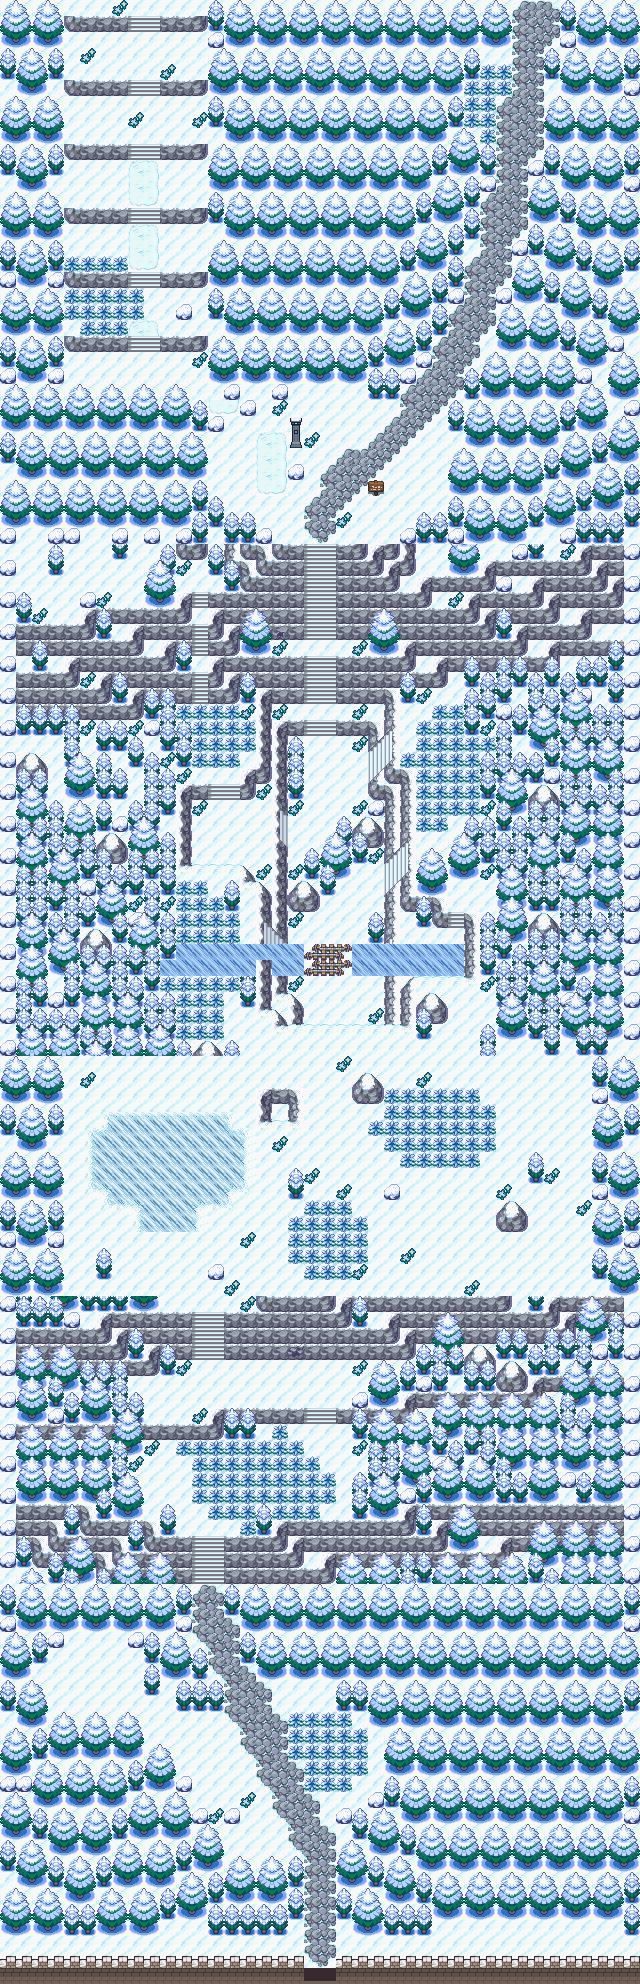
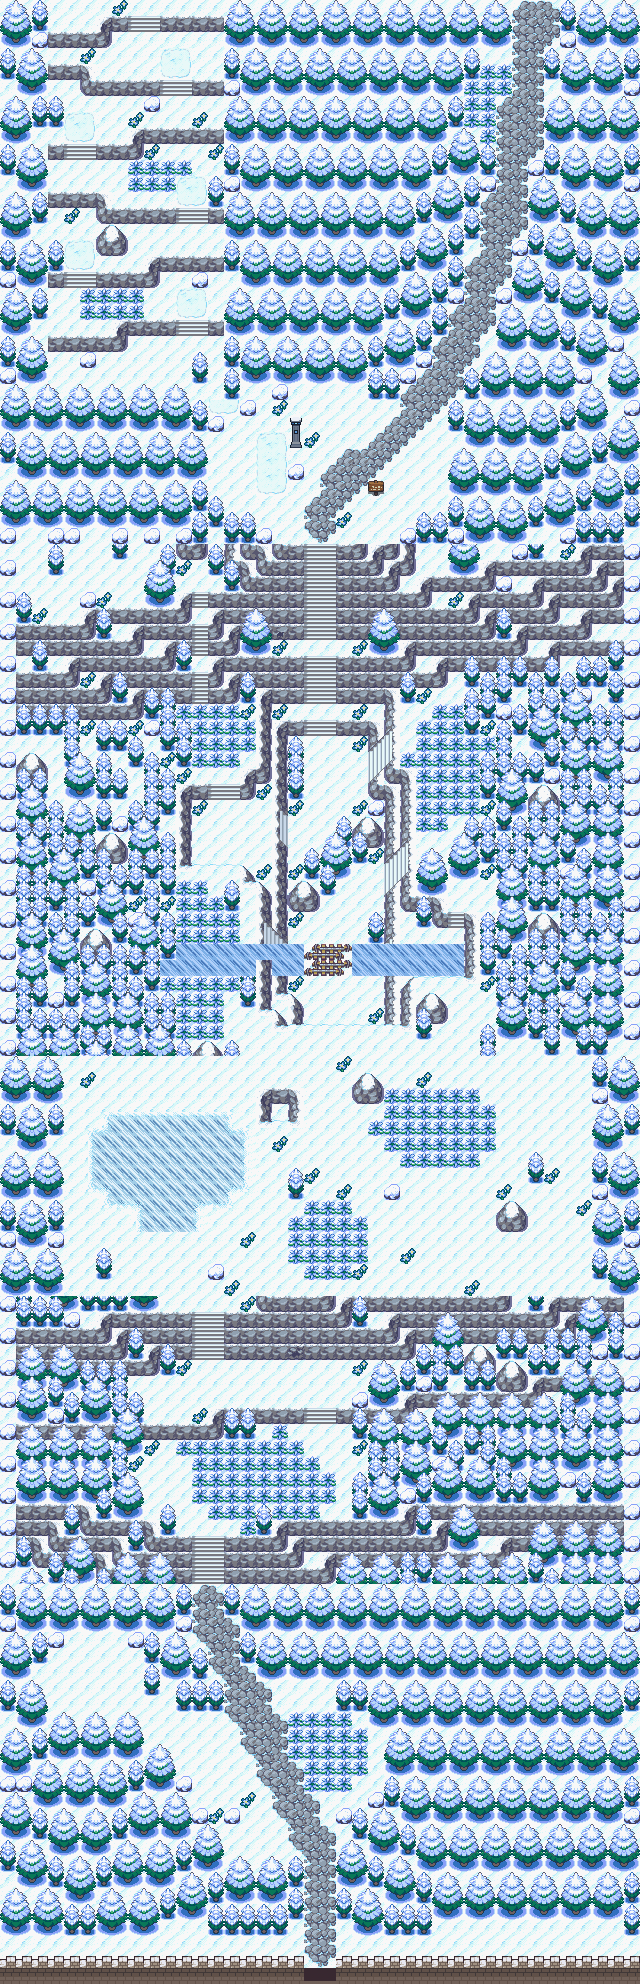
Route 13 mock v2: a switchback climb to Mt. Mirroh
User 2026-11-22: the stairs should curve into one another level by level, like a hike.
Six contour walls that jog a row up or down with MonoMyth's corner pieces (climbing jog:
0x107 then 0x10d in the same column; falling jog: 0x10e then 0x105), each unbroken from
trees to trees; the stairs alternate sides (x 11, 4, 11, 4, 10, then 8 at the top), so
each ledge is walked end to end. A trodden landing at each stair, grass, a boulder, rocks
and small pines on the ledges. Zone widened to x 3-13.

Claude-Session: https://claude.ai/code/session_01FHXnfqnedTHLf5QFbB3MCU

Changed region(s): [[0.0312, 0.0, 0.375, 0.2188]]

diff --git a/tools/art/route13/route13_v2.py b/tools/art/route13/route13_v2.py
@@ -177,39 +177,59 @@ def compose():
     # cobbles carry on to their HQ, the wilds of Mt. Mirroh are an unpaved trail breaking off them)
     road_ne = lane(((19.5, 33.4), (19.8, 31), (21.5, 29), (24, 27), (27.5, 23), (30, 17), (31.5, 11), (32.5, 5), (33, -1)), 1.25, 'ne', 0.3)
     trail = lane(((18.5, 30.5), (15, 27), (11, 22), (9, 16), (8.5, 8), (8.5, -1)), 1.0, 'nw', 0.3)
-    spur = {(x, y) for y in range(0, 26) for x in range(W) if 13 + y * 0.28 <= x <= 27 - y * 0.30 and (x, y) not in plateau}
+    spur = {(x, y) for y in range(0, 26) for x in range(W) if max(14, 13 + y * 0.28) <= x <= 27 - y * 0.30 and (x, y) not in plateau}
     upper = {(x, y) for y in range(0, FORK[1] + 1) for x in range(W)}
-    openu = plateau | road_ne | trail | blob(31, 6, 2.5, 2.0, 'g6') | blob(6, 18, 2.0, 2.5, 'g5') \
-        | {(x, y) for y in range(0, 24) for x in range(4, 13) if y % 4 != 1}                 # (the steep terraces' ledges)
-    openu = {c for c in openu if c not in spur} | {c for c in road_ne | trail}
-    forest(K, upper - openu - {(x, y) for y in range(0, 24) for x in range(4, 13)}, 'uf')
-    # steep terraces up to Mt. Mirroh: a rock wall every fourth row, each running unbroken from the trees on the left
-    # to the trees on the right (user 2026-11-22: stubs and gaps by the stairs looked wrong; no way round either),
-    # the stone stair (x 8-9) its only way through
-    for y in range(1, 24, 4):
-        x0 = 4
-        while x0 > 0 and not K.solid[y, x0 - 1]: x0 -= 1
-        x1 = 12
-        while x1 < W - 1 and not K.solid[y, x1 + 1]: x1 += 1
-        for x in range(x0, x1 + 1):
-            if x in (8, 9): continue
-            K.put(x, y, ef(0x105 if x == x0 else 0x107 if x == x1 else 0x106), 'cliff', True)
-        K.ids(8, y, [[0x47, 0xe1]], 'stairs', solid=False, beh=0x4F)
+    ZONE = {(x, y) for y in range(0, 24) for x in range(3, 14)}                 # (the switchback terraces)
+    openu = plateau | road_ne | blob(31, 6, 2.5, 2.0, 'g6') \
+        | ZONE
+    openu = ({c for c in openu if c not in spur} | road_ne | {c for c in trail if c[1] >= 24}) - {c for c in trail if c[1] < 24 and c not in ZONE}
+    forest(K, upper - openu - ZONE, 'uf')
+    # the switchback climb to Mt. Mirroh (user 2026-11-22: the stairs should curve into one another, level by level,
+    # so it feels like an ascent): six contour walls that jog a row up or down as MonoMyth's do (a climbing jog: the
+    # lower run ends 0x107 and the upper starts 0x10d in the same column; a falling jog: 0x10e then 0x105), each
+    # running unbroken across the zone (x 3-13) between the trees; their stairs alternate right, left, right, left,
+    # right, then the top: you climb, walk the ledge to its far end, climb again
+    WALLS = [  # (runs: (x0, x1, row)), the stair's x
+        ([(3, 7, 21), (7, 13, 20)], 11), ([(3, 9, 17), (9, 13, 16)], 4), ([(3, 6, 12), (6, 13, 13)], 11),
+        ([(3, 8, 9), (8, 13, 8)], 4), ([(3, 5, 4), (5, 13, 5)], 10), ([(3, 6, 2), (6, 13, 1)], 8)]
+    landings = []
+    for runs, sx in WALLS:
+        for i, (x0, x1, y) in enumerate(runs):
+            for x in range(x0, x1 + 1):
+                m = 0x106
+                if i == 0 and x == x1 and len(runs) > 1:
+                    m = 0x107 if runs[1][2] < y else 0x10e                       # (this run ends where the next begins)
+                if i == 1 and x == x0:
+                    m = 0x10d if y < runs[0][2] else 0x105
+                K.put(x, y, ef(m), 'cliff', True)
+        (sy,) = [y for (x0, x1, y) in runs if x0 < sx and sx + 1 < x1 + (1 if x1 == 13 else 0) and x0 <= sx <= x1 - 1] or [runs[-1][2]]
+        K.ids(sx, sy, [[0x47, 0xe1]], 'stairs', solid=False, beh=0x4F); landings.append((sx, sy))
+    # ledge life: a trodden landing above each stair, grass, a boulder, rocks and small pines against the walls
+    land = set()
+    for (sx, sy) in landings:
+        for yy in (sy - 2, sy - 1):
+            for xx in (sx, sx + 1):
+                if 0 <= yy and K.tag[yy, xx] == 'snow': land.add((xx, yy))
+    r1.icy_track(K, {c for c in land if (c[0], c[1] + 1) in land or (c[0], c[1] - 1) in land})
+    grass(K, {(x, y) for y in (18, 19) for x in range(5, 9)}); grass(K, {(x, y) for y in (10, 11) for x in range(8, 12)})
+    boulder(K, 6, 14); boulder(K, 10, 2)
+    for (x, y) in ((12, 22), (3, 6), (13, 11), (3, 15)): pine(K, x, y, False)
+    for (x, y) in ((9, 6), (5, 22), (12, 17)): rock(K, x, y)
     cob = thick({c for c in road_lo | road_ne if K.tag[c[1], c[0]] in ('snow',)})
     cobbles(K, cob)
     for (x, y) in cob: K.solid[y, x] = False; K.beh[y, x] = MB_NORMAL
     wi, wm = r1.waystone(); K.overlay(wi, wm, 18 * 16, 26 * 16, 'waystone')
     sgn = mm.cut('c31', 23, 20, 1, 1)[0][0]
     if sgn: K.overlay(sgn[0], sgn[1], 23 * 16, 30 * 16, 'sign')
-    grass(K, blob(31, 6, 2.5, 2.0, 'g6') - road_ne); grass(K, blob(6, 18, 2.0, 2.5, 'g5') - trail)
+    grass(K, blob(31, 6, 2.5, 2.0, 'g6') - road_ne)
     # the wild trail's look (user 2026-11-22: show the difference at the fork): Elderflower's trodden icy track in
     # staggered patches from the plateau up to the first stone stair, a few rocks along its edges
     seg = set()
-    for (x, y0, y1) in ((16, 27, 30), (13, 24, 26), (8, 18, 20), (8, 14, 16), (8, 10, 12)):   # (between the walls, in line with the stairs)
+    for (x, y0, y1) in ((16, 27, 30), (13, 24, 26)):                     # (on the plateau, toward the first stair)
         seg |= {(xx, y) for y in range(y0, y1 + 1) for xx in (x, x + 1)}
     seg = {c for c in seg if K.tag[c[1], c[0]] == 'snow'}
     r1.icy_track(K, seg)
-    for (x, y) in ((15, 25), (18, 29), (11, 25), (11, 19)): rock(K, x, y)
+    for (x, y) in ((15, 25), (18, 29), (11, 25)): rock(K, x, y)
     return K, notes
 
 def reach(K, start):
